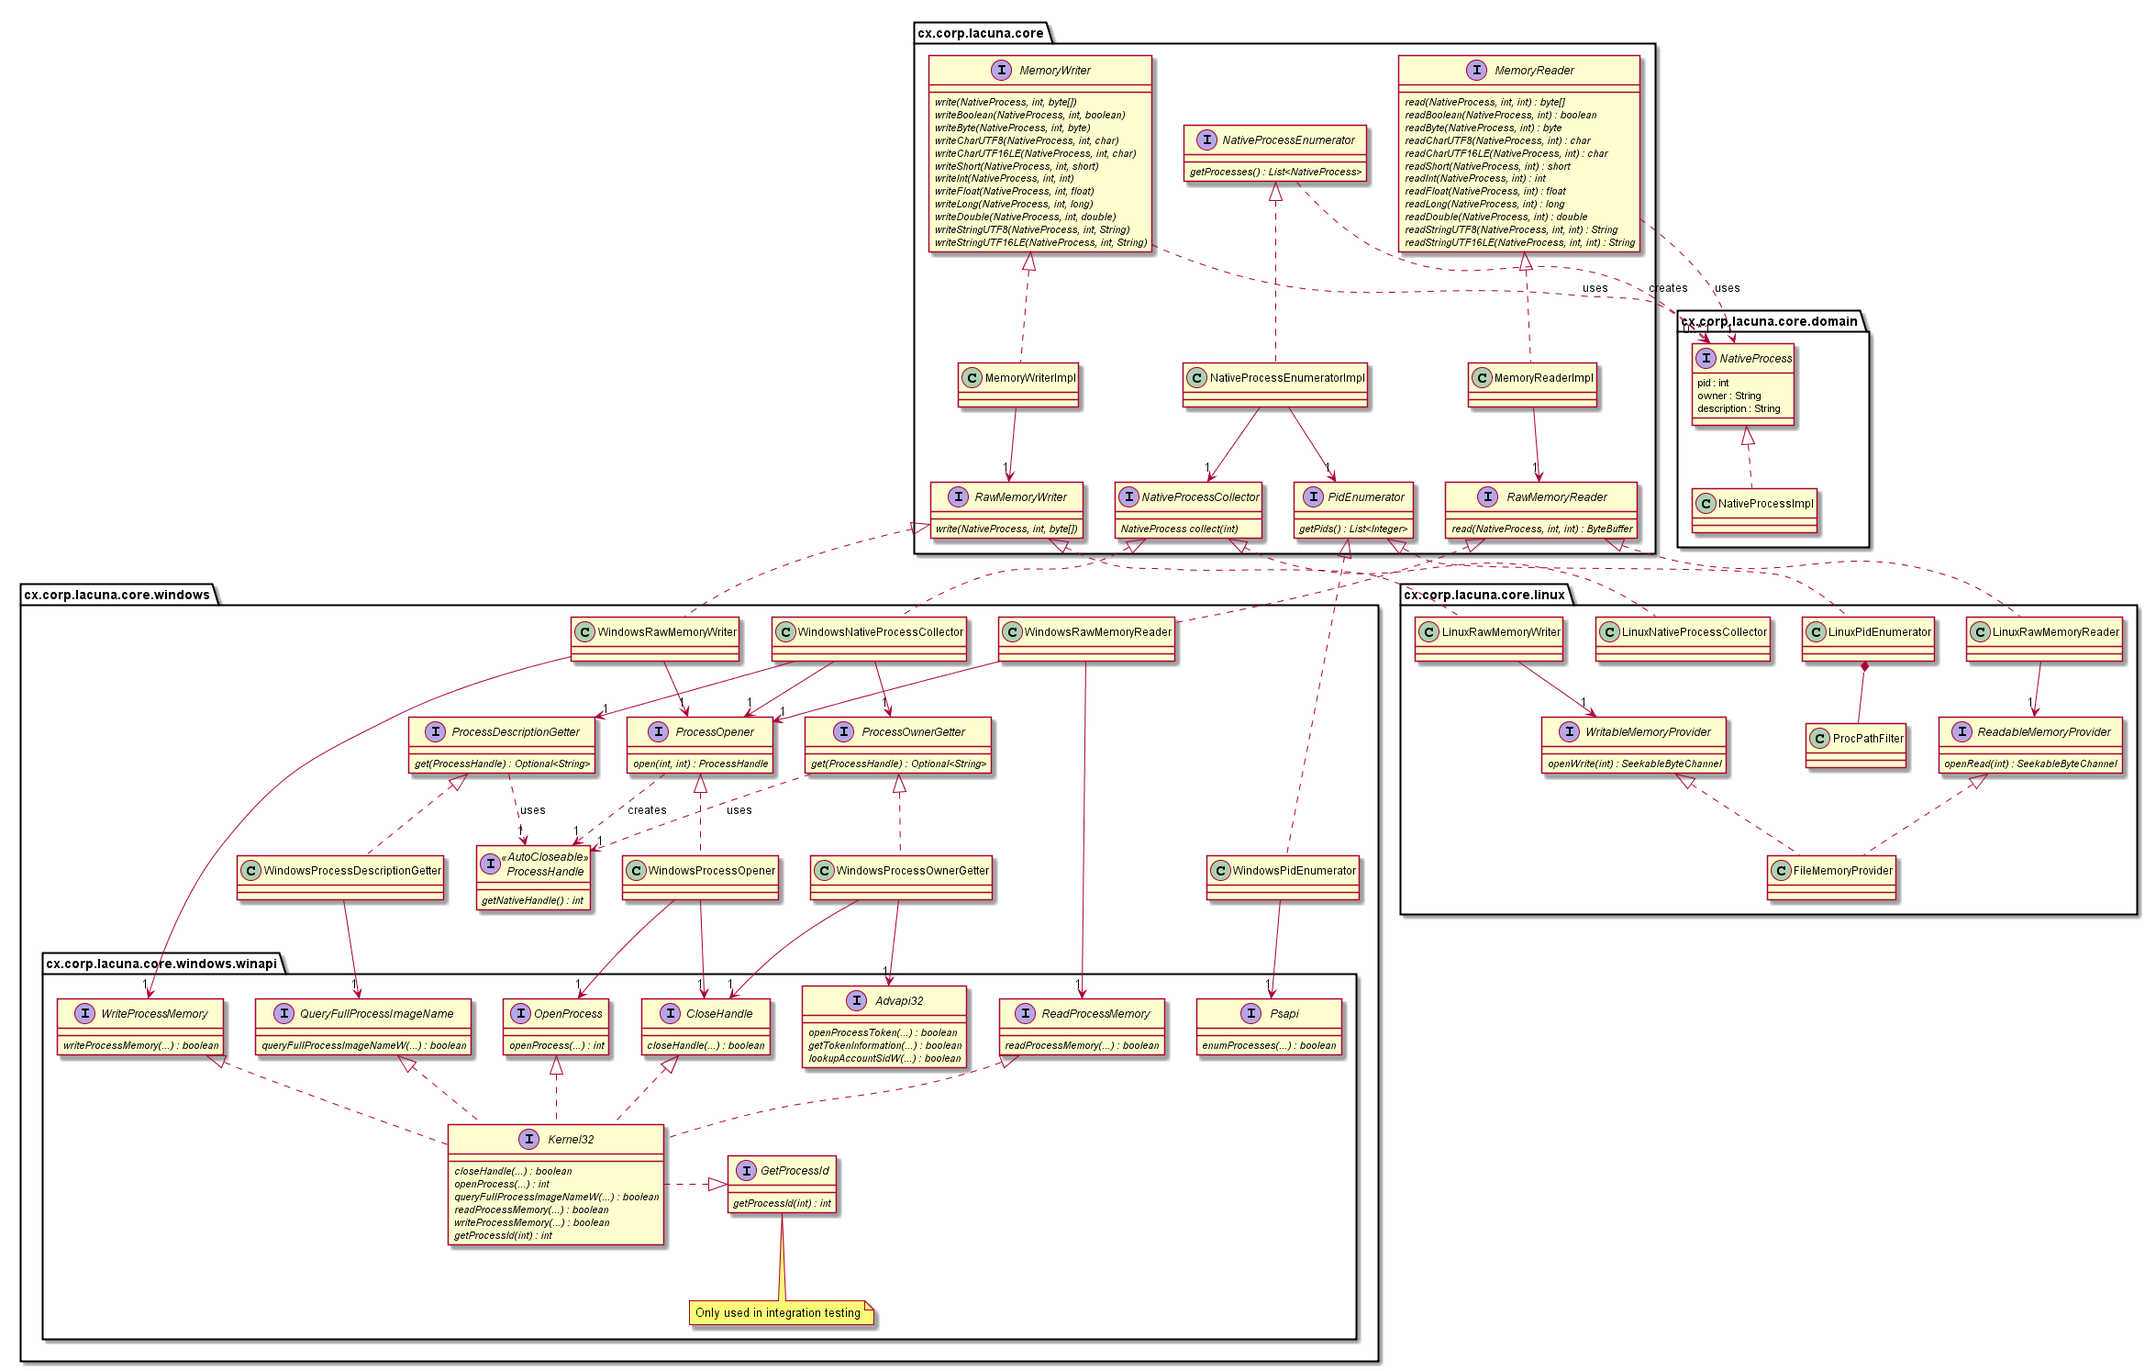
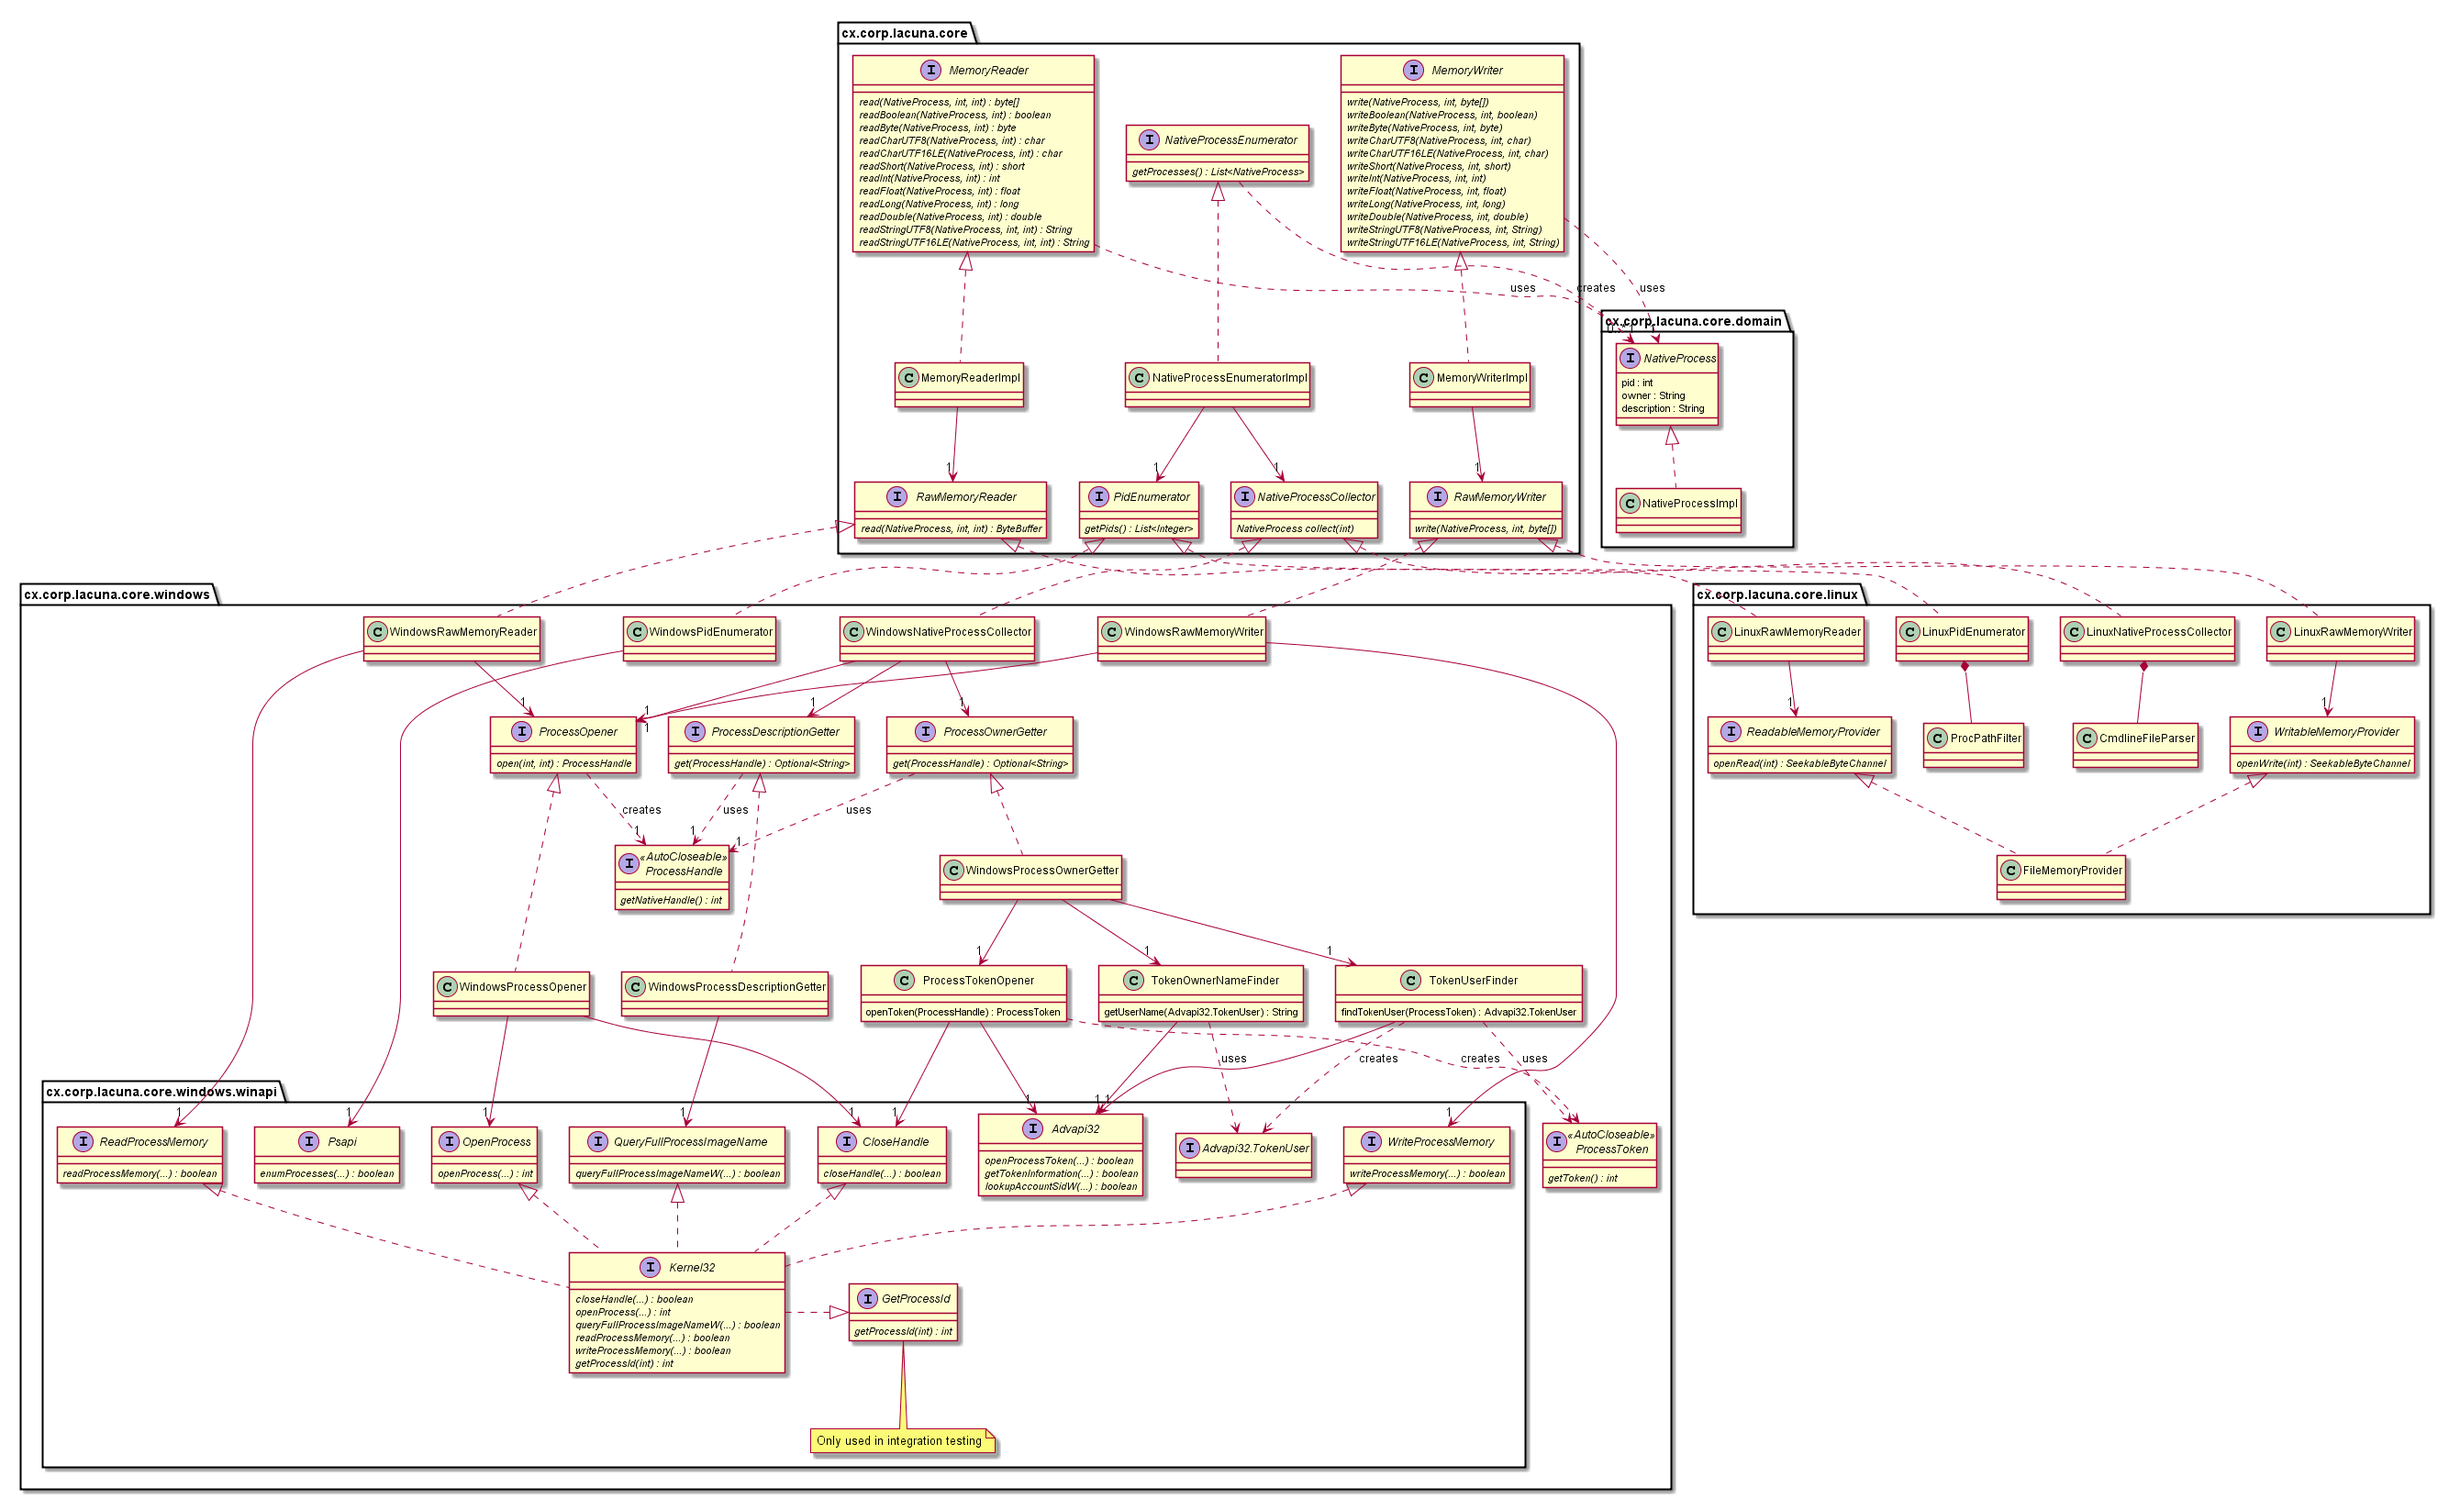
Restructuring WindowsProcessOwnerGetter

Changed region(s): [[0.0, 0.0, 0.994, 1.0]]

diff --git a/lacuna/src/main/java/cx/corp/lacuna/Main.java b/lacuna/src/main/java/cx/corp/lacuna/Main.java
@@ -24,6 +24,9 @@ import cx.corp.lacuna.core.linux.LinuxRawMemoryWriter;
 import cx.corp.lacuna.core.windows.ProcessDescriptionGetter;
 import cx.corp.lacuna.core.windows.ProcessOpener;
 import cx.corp.lacuna.core.windows.ProcessOwnerGetter;
+import cx.corp.lacuna.core.windows.ProcessTokenOpener;
+import cx.corp.lacuna.core.windows.TokenOwnerNameFinder;
+import cx.corp.lacuna.core.windows.TokenUserFinder;
 import cx.corp.lacuna.core.windows.WindowsNativeProcessCollector;
 import cx.corp.lacuna.core.windows.WindowsPidEnumerator;
 import cx.corp.lacuna.core.windows.WindowsProcessDescriptionGetter;
@@ -171,7 +174,12 @@ public class Main {
 
         PidEnumerator enumerator = new WindowsPidEnumerator(psapi);
         ProcessOpener procOpener = new WindowsProcessOpener(kernel);
-        ProcessOwnerGetter ownerGetter = new WindowsProcessOwnerGetter(advapi, kernel);
+
+        ProcessOwnerGetter ownerGetter = new WindowsProcessOwnerGetter(
+            new ProcessTokenOpener(advapi, kernel),
+            new TokenUserFinder(advapi),
+            new TokenOwnerNameFinder(advapi)
+        );
         ProcessDescriptionGetter descriptionGetter = new WindowsProcessDescriptionGetter(kernel);
         NativeProcessCollector collector =
             new WindowsNativeProcessCollector(procOpener, ownerGetter, descriptionGetter);

diff --git a/lacuna/src/main/java/cx/corp/lacuna/core/windows/WindowsProcessOwnerGetter.java b/lacuna/src/main/java/cx/corp/lacuna/core/windows/WindowsProcessOwnerGetter.java
@@ -11,13 +11,12 @@ public class WindowsProcessOwnerGetter implements ProcessOwnerGetter {
     private final TokenUserFinder tokenUserFinder;
     private final TokenOwnerNameFinder tokenOwnerFinder;
 
-    public WindowsProcessOwnerGetter(Advapi32 advapi, CloseHandle handleCloser) {
-        if (advapi == null || handleCloser == null) {
-            throw new IllegalArgumentException("Arguments cannot be null!");
-        }
-        tokenOpener = new ProcessTokenOpener(advapi, handleCloser);
-        tokenUserFinder = new TokenUserFinder(advapi);
-        tokenOwnerFinder = new TokenOwnerNameFinder(advapi);
+    public WindowsProcessOwnerGetter(ProcessTokenOpener tokenOpener,
+                                     TokenUserFinder userFinder,
+                                     TokenOwnerNameFinder nameFinder) {
+        this.tokenOpener = tokenOpener;
+        this.tokenUserFinder = userFinder;
+        this.tokenOwnerFinder = nameFinder;
     }
 
     @Override

diff --git a/lacuna/src/test/java/cx/corp/lacuna/core/windows/WindowsNativeProcessEnumeratorImplIT.java b/lacuna/src/test/java/cx/corp/lacuna/core/windows/WindowsNativeProcessEnumeratorImplIT.java
@@ -48,7 +48,11 @@ public class WindowsNativeProcessEnumeratorImplIT {
         Psapi psapi = winapi.getPsapi();
         PidEnumerator pidEnumerator = new WindowsPidEnumerator(psapi);
         ProcessOpener opener = new WindowsProcessOpener(kernel32);
-        ProcessOwnerGetter ownerGetter = new WindowsProcessOwnerGetter(advapi32, kernel32);
+        ProcessOwnerGetter ownerGetter = new WindowsProcessOwnerGetter(
+            new ProcessTokenOpener(advapi32, kernel32),
+            new TokenUserFinder(advapi32),
+            new TokenOwnerNameFinder(advapi32)
+        );
         ProcessDescriptionGetter descriptionGetter = new WindowsProcessDescriptionGetter(kernel32);
         NativeProcessCollector collector =
             new WindowsNativeProcessCollector(opener, ownerGetter, descriptionGetter);
